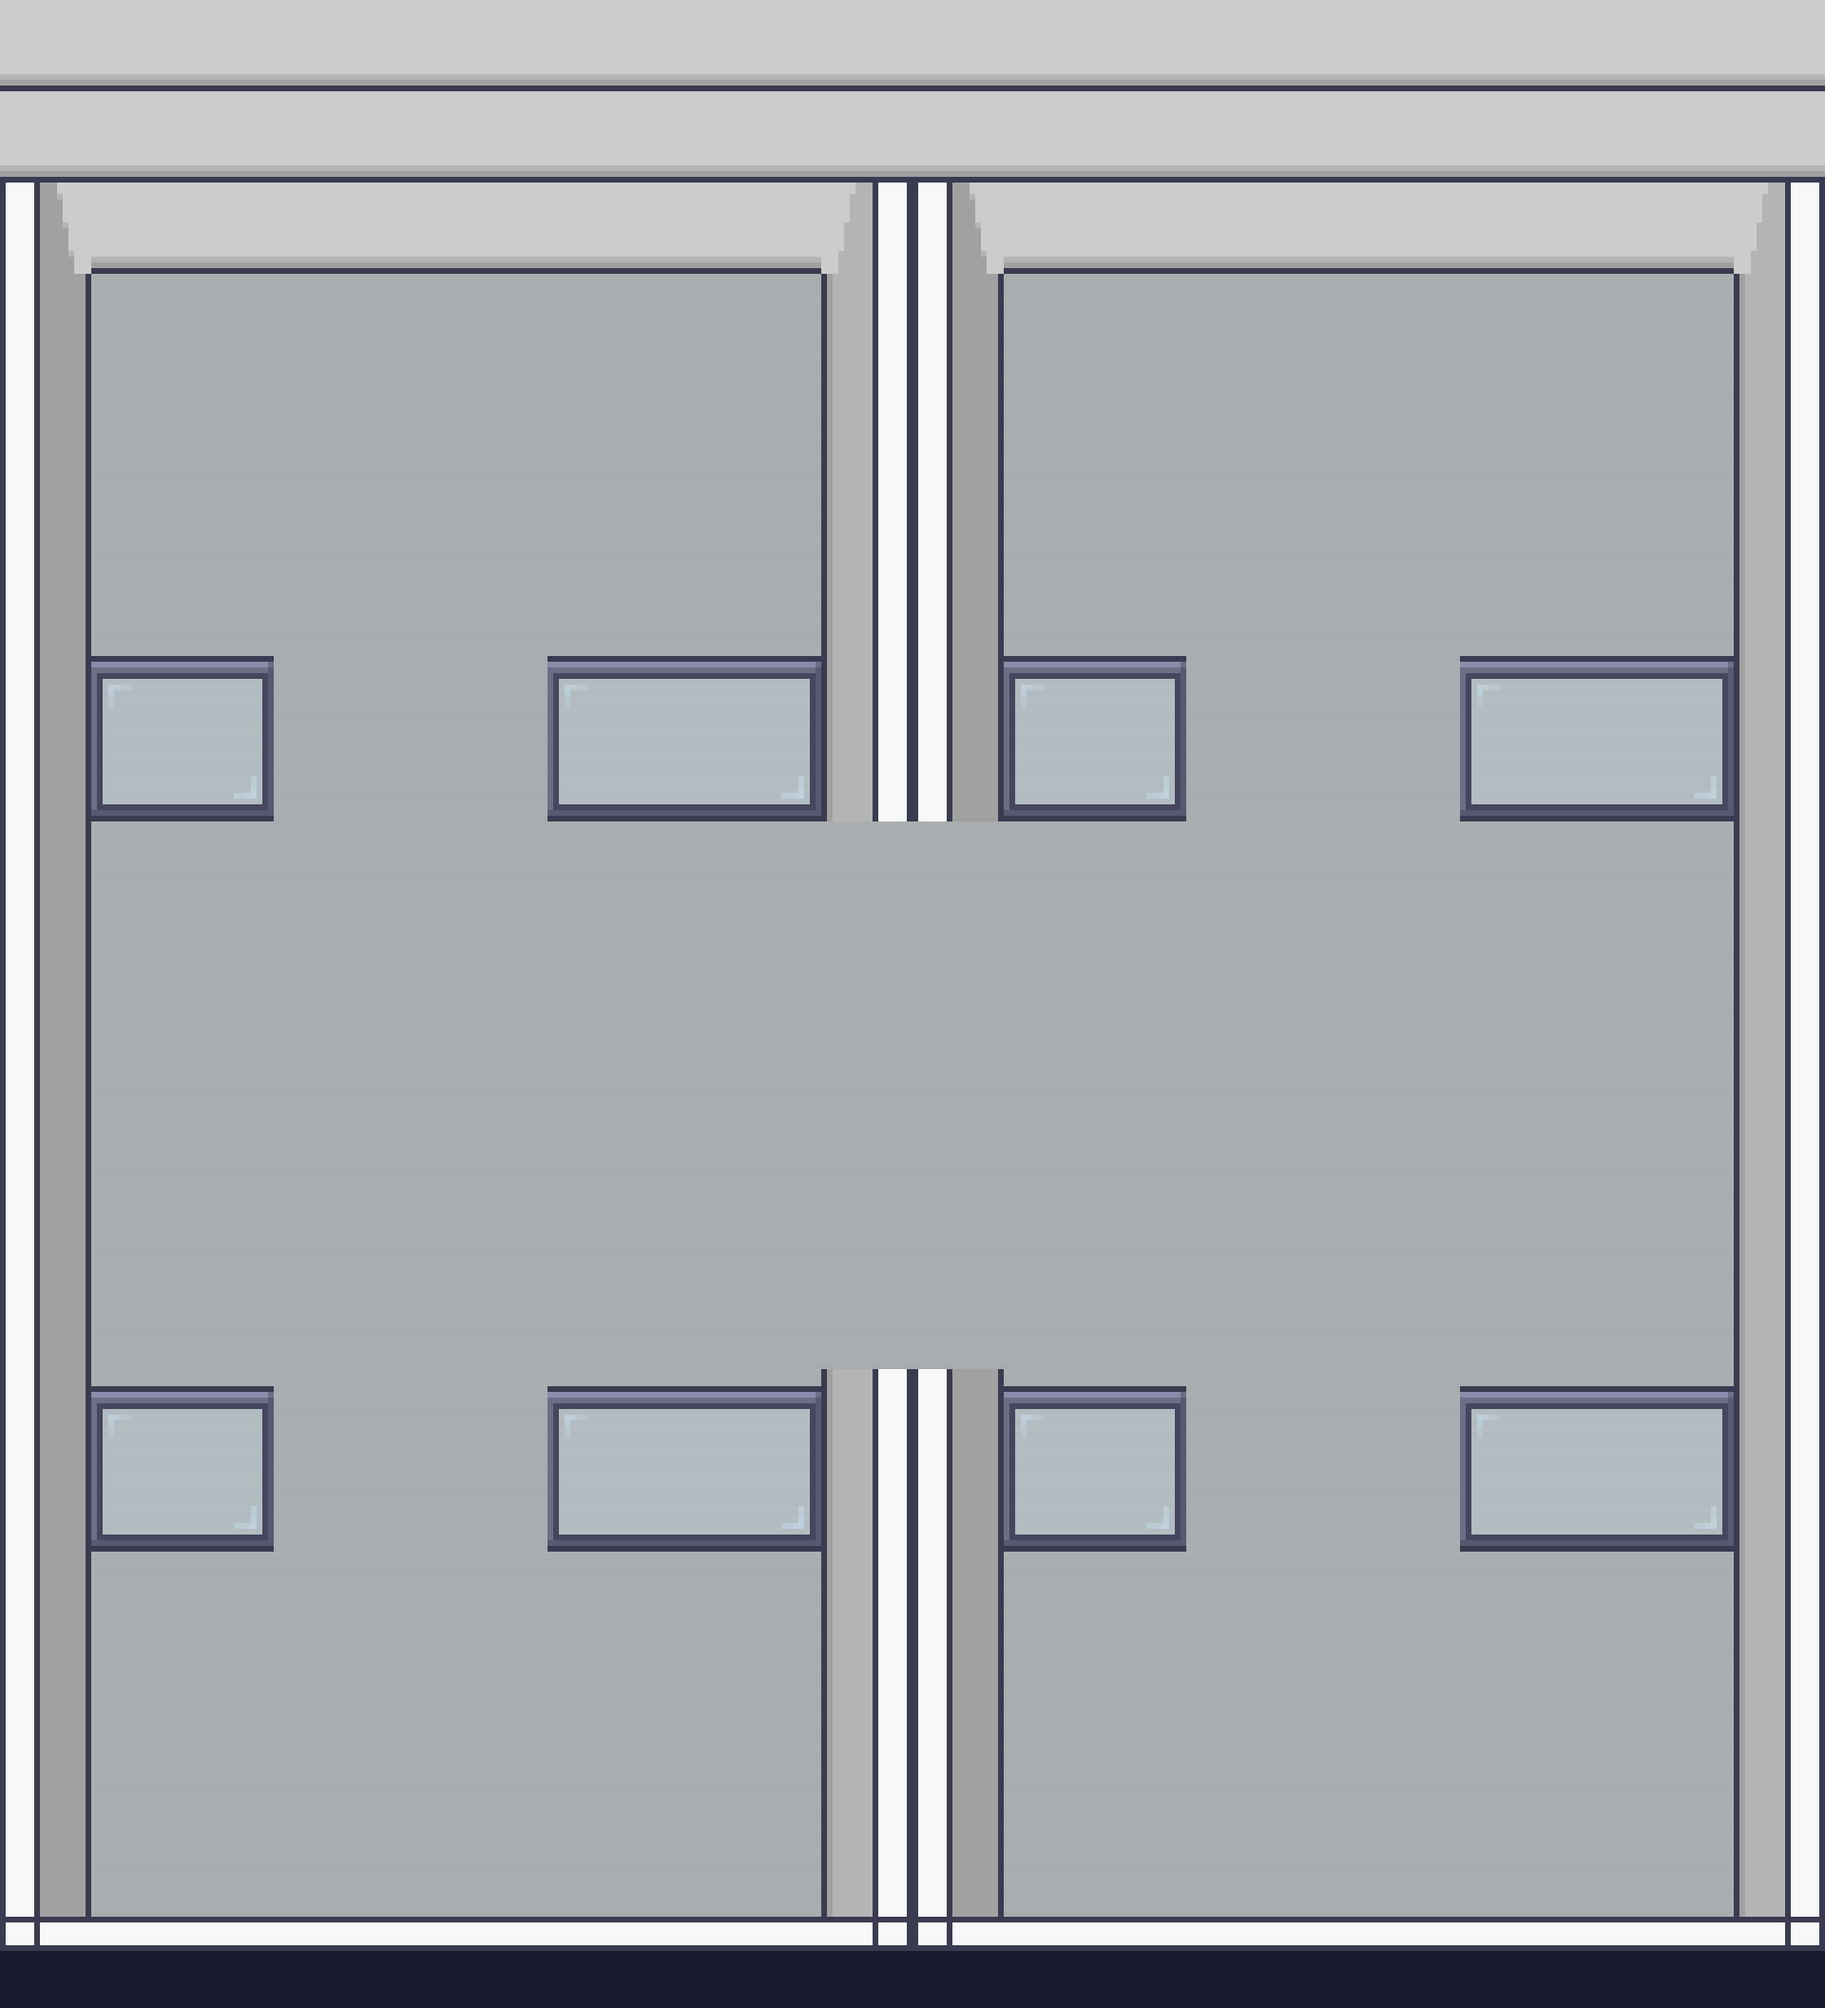
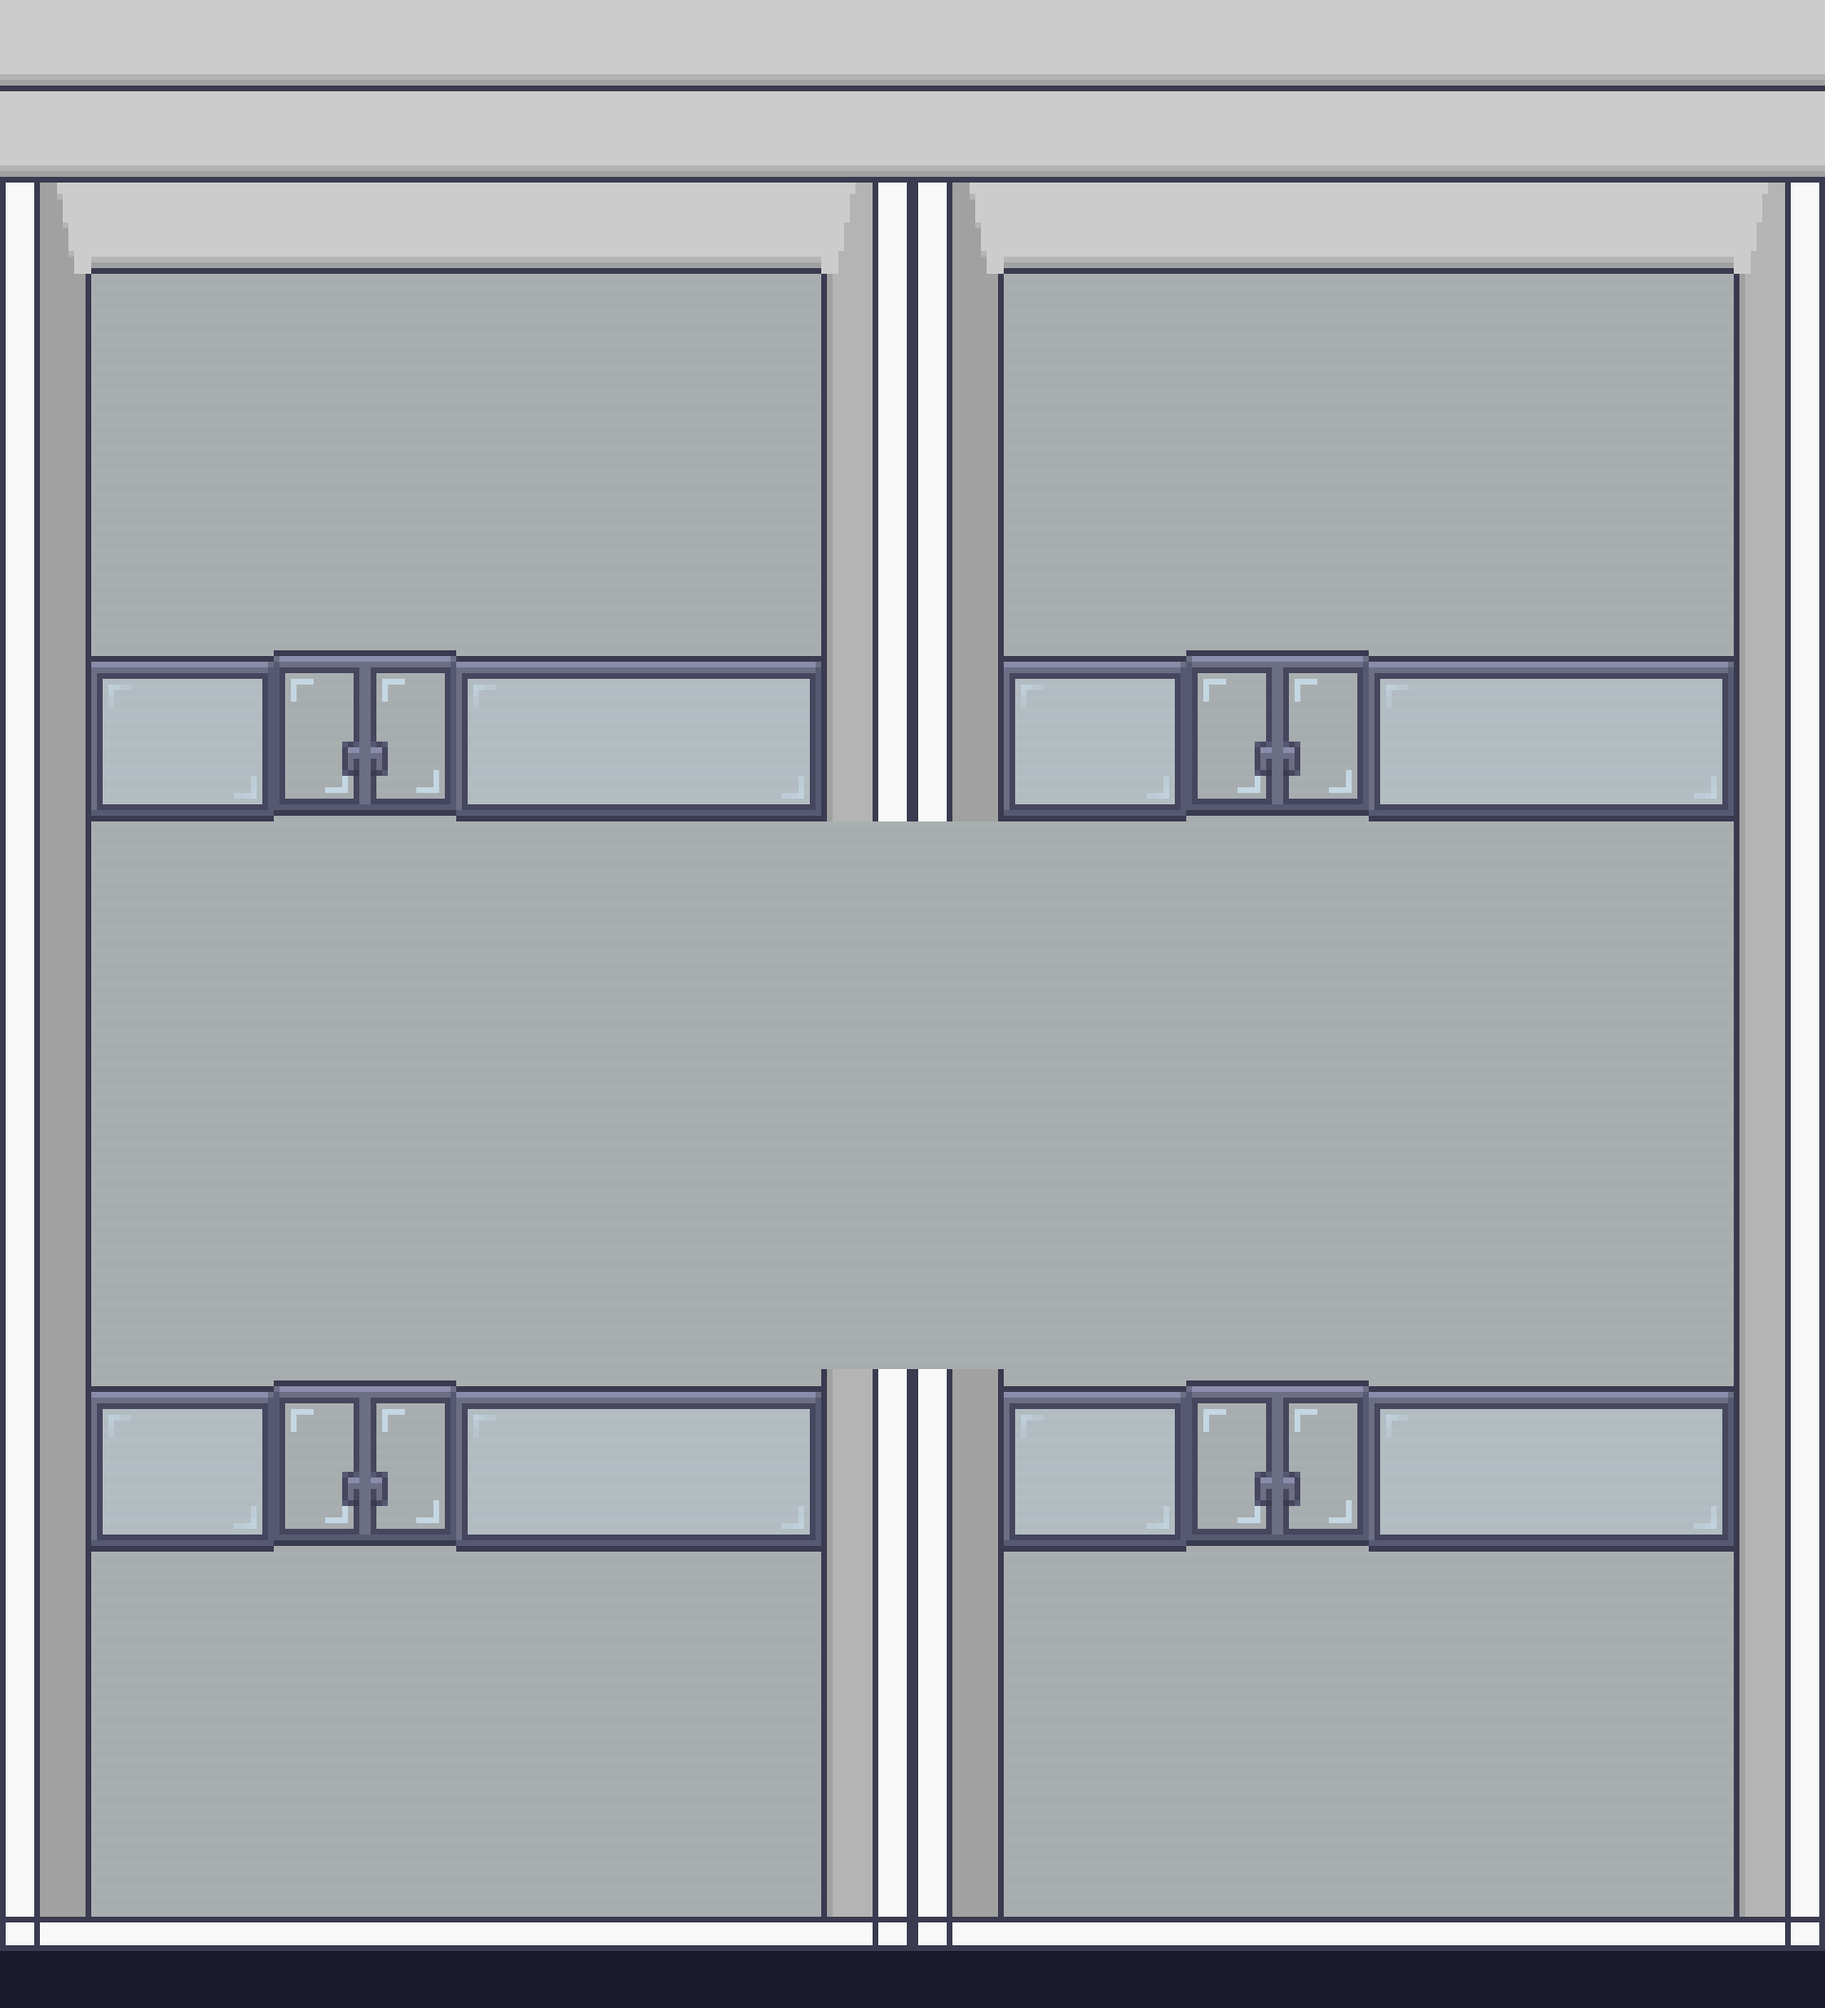
Add sliding glass doors to all 4 openings, narrow gaps to 2 tiles

diff --git a/src/scenes/HQScene.ts b/src/scenes/HQScene.ts
@@ -26,6 +26,7 @@ export class HQScene extends Phaser.Scene {
     this.load.image('walls', `${TILESET_BASE}/Room_Builder_Walls_32x32.png`);
     this.load.image('walls3d', `${TILESET_BASE}/Room_Builder_3d_walls_32x32.png`);
     this.load.image('basement', `${THEME_BASE}/14_Basement_32x32.png`);
+    this.load.image('glass_door', 'assets/tilesets/limezu/glass_door_closed.png');
   }
 
   create() {
@@ -34,11 +35,13 @@ export class HQScene extends Phaser.Scene {
     const wallTs = map.addTilesetImage('walls', 'walls')!;
     const w3dTs = map.addTilesetImage('walls3d', 'walls3d')!;
     const basementTs = map.addTilesetImage('basement', 'basement')!;
+    const doorTs = map.addTilesetImage('glass_door', 'glass_door')!;
 
     map.createLayer('floor', [floorTs])!.setDepth(0);
     map.createLayer('walls', [wallTs])!.setDepth(1);
     map.createLayer('walls3d', [w3dTs])!.setDepth(2);
     map.createLayer('glass', [basementTs])!.setDepth(3);
+    map.createLayer('furniture', [doorTs])!.setDepth(4);
 
     this.setupCamera();
   }
